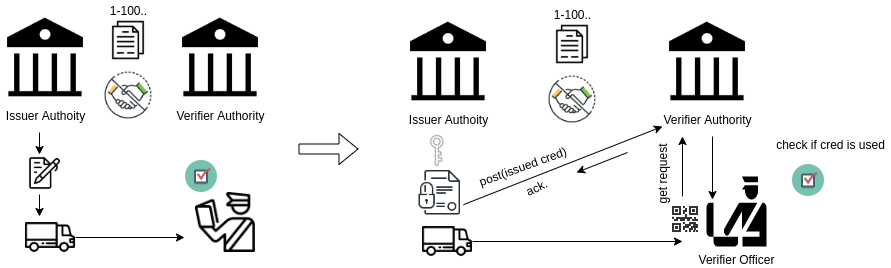
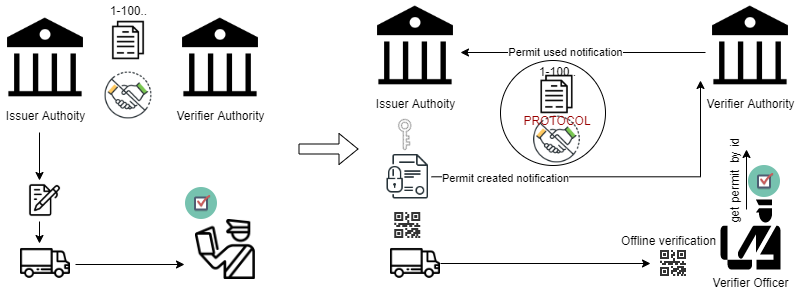
New spec

diff --git a/DRAFT.md b/DRAFT.md
@@ -7,11 +7,8 @@ This draft text represents the arrangement of the specifications about the e-per
 
 ## Problem and Motivation
 
-Electronic permit can be considered as a common credential except some of its features. There is a specification study regarding the electronic management of a credential, which is called "Verifiable Credentials Data Model 1.0". Life cycle of the credential in the mentioned specificatoion is as follows:
+Electronic permit can be considered as a common credential except some of its features. 
 
-![w:1000](https://miro.medium.com/max/619/0*QLb4tYr-R5foQkXT)
-
-During the adaptation of some of the concepts in the picture above, “issuer” and “verifier” can be named as the country, “subject” as the vehicle and “holder” as the driver. However, with its features below, e-permit differs from the said life cycle :
 - It is exchanged in a certain number (quota) between two countries through protocols.
 - The parties that deliver and receive the e-permit are known in advance of the exchange.
 - Information about the usage (number of used/unused permits) of the permit is important for the countries (permit/quota management).
@@ -23,17 +20,7 @@ Considering the above-mentioned characteristics; the e-permit has an authentic f
 - Secure(Non Repudiation, Authentication, Integrity)
 - Online/Offline Verification
 
-- P2P integration/trust
-- Secure(Non Repudiation, Authentication, Integrity)
-- Easy to integrate(Http)
-- Technology Independent(Http)
-- Offline capability
-
-- Identity Management
-- Secure Distributed Message
-- Key Management
-- Quota Management
-- Permit Management(properties, revocations, usage, qr code)
+![w:1000](img/e-permit-flow.png)
 
 
 ## Implementation
@@ -43,60 +30,40 @@ Considering the above-mentioned characteristics; the e-permit has an authentic f
 Electronic identity management is needed in order to provide safe and undeniable (with digital signature) electronic communcition between two countries. In such scenarios where the parties are certainly known, the identity management can be performed with the below method easily.
 - Each country produces its own key pair.
 - Each country keeps the private key safely in its system for signing e-permit
-- The public key is sent to the other country for the verification of signature. Key sharing may be realized in written and original signed document during the arrangement of the Protocol between the countries.
+- The public key is sent to the other country for the verification of signature. 
 
-### Issuance
+### Quota Management
+
+### Issuing Permit
 
 The issuing country prepares/forms the credentials of the document in accordance with the e-permit format and signs it with its private key. Then, the country sends the portable electronic document to the corresponding country through web service. The newly formed document is also sent to the carrier for offline verification.
 
-### Verification
+### Permit Verification
 
 As the e-permit, under normal circumstances,  will be sent to the other party through web service, the verification will be done online as default. However, it can be realised offline in cases of network problems.
 
 #### Online Verification
 
-The information of the newly formed e-permit can be displayed and the e-signature can be verified as the verifier authority enters the single number (hash of the permit).
+The information of the newly formed e-permit can be displayed and the e-signature can be verified as the verifier authority enters the single permit identifier.
 
 #### Offline Verification
 
-In case of a network problem, the e-permit that is given to the carrier as qr code, can be verified offline by using the “Verifier Application. Countries can either develop their own verifier applications or use the existing web system.( Universal Verifier Application (https://e-permit.github.io/verify)
+In case of a network problem, the e-permit that is given to the carrier as qr code, can be verified offline by using the “Verifier Application. Countries can either develop their own verifier applications or use the universal verifier web application.( Universal Verifier Application (https://e-permit.github.io/verify)
 
-### Flow
-
-![w:1000](https://raw.githubusercontent.com/e-permit/e-permit.github.io/master/img/e-permit-flow.png)
-
-### Claims of e-permit credential
-
-| Code | Field | Description | Required | Format | Sample Value | 
-| ---- | ------| ----------- | -------- | ------ | ------------ | 
-| 1 | py | Year of the permit | &#9745; | Year | 2020 |
-| 2 | exp |  Permit valid until | &#9745; | Unix Epoch Time | 1311281970 |
-| 3 | pid | Serial Number of the permit | &#9745; | Number | 1 |
-| 4 | iss | This permit issued by |  &#9745; | Country code | ua |
-| 5 | iat | This permit prepared on | &#9745; | Unix Epoch Time | 1311281970 |
-| 6 | cn | Name of the company | | Text(max 100) | Sample Org. |
-| 7 | cid | National ID of the company | &#9745; | Text | A101.. | 
-| 8 | sub | Plate number(s) | &#9745; | Text | 06BB2020 |
-| 9 | pt | Type of the permit | &#9745; | Enum[1,2,3] | "biliteral", "transit", "3rdcountry" |
-| 10 | res | Restrictions | | Text(max 100) | Sample res. |
-| 11 | aud | This permit issued for | &#9745; | Country code | tr |
-
-
-
-### Credential Format 
-
-An e-permit can be considered as a standardJWS format, apart from the version information. JWS format is shown below:
-
-![w:1000](https://raw.githubusercontent.com/e-permit/e-permit.github.io/master/img/jws-format.png)
-
-Format of the permit is created by the addition of version information to the JWS format:
-```{version}.{header}.{payload}.{signature}```
 
 ### Claims of e-permit offline credential
 
-```issuer#issued_for#permit_year#permit_type#serial_number#issued_at#expire_at#plate_number#company_name```
+| Code | Field | Description | Required | Format | Sample Value | 
+| ---- | ------| ----------- | -------- | ------ | ------------ | 
+| 1 | exp |  Permit valid until | &#9745; | dd/MM/yyyy | 31/01/2022 |
+| 2 | id | Permit identifier | &#9745; | ISSUER-VERIFIER-YEAR-TYPE-SERIALNUMBER | TR-UZ-2021-1-1 |
+| 3 | iat | This permit prepared on | &#9745; | dd/MM/yyyy | 10/01/2021 |
+| 4 | cn | Name of the company | | Text(max 100) | Sample Org. |
+| 5 | pn | Plate number(s) | &#9745; | Text | 06AA1234 |
 
-### Claims of e-permit credential
+
+
+### Claims of e-permit credential(through web services)
 
 | Code | Field | Description | Required | Format | Sample Value | 
 | ---- | ------| ----------- | -------- | ------ | ------------ | 
@@ -106,17 +73,57 @@ Format of the permit is created by the addition of version information to the JW
 | 4 | issuer | This permit issued by |  &#9745; | Country code | ua |
 | 5 | issued_at | This permit prepared on | &#9745; | Unix Epoch Time | 1311281970 |
 | 6 | company_name | Name of the company | | Text(max 100) | Sample Org. |
-| 7 | company_id | National ID of the company | &#9745; | Text | A101.. | 
 | 8 | plate_number | Plate number(s) | &#9745; | Text | 06BB2020 |
 | 9 | permit_type | Type of the permit | &#9745; | Enum[1,2,3] | "biliteral", "transit", "3rdcountry" |
-| 10 | restrictions | Restrictions | | Text(max 100) | Sample res. |
 | 11 | issued_for | This permit issued for | &#9745; | Country code | tr |
-| 11 | claims | Other claims | &#9745; | Key Value | {} |
+| 12 | claims | Other claims | &#9745; | Key Value | {} |
 
 ## Events
 
-- KEY_CREATED
-- QUOTA_CREATED
-- PERMIT_CREATED
-- PERMIT_REVOKED
-- PERMIT_USED
+All communication between parties 
+
+### Credential Format 
+
+An e-permit event can be considered as a standardJWS format, apart from the version information. JWS format is shown below:
+
+![w:1000](https://raw.githubusercontent.com/e-permit/e-permit.github.io/master/img/jws-format.png)
+
+Format of the permit is created by the addition of version information to the JWS format:
+```{version}.{header}.{payload}.{signature}```(version: 0 means demo)
+
+### KEY_CREATED
+
+- jwk: jwk content(kid, x, y, ...)
+
+### KEY_REVOKED
+
+- key_id: Id of the key(kid)
+- revoked_at: Revocation timestamp
+
+### QUOTA_CREATED
+
+- permit_year:
+- permit_tpe:
+- start_number: 
+- end_number:
+### PERMIT_CREATED
+
+- permit_id
+- permit_year
+- permit_type
+- serial_number
+- issued_at
+- expire_at
+- company_name
+- plate_number
+- claims
+
+### PERMIT_REVOKED
+
+- permit_id
+
+### PERMIT_USED
+
+- permit_id:
+- activity_type:
+- activity_timestamp
